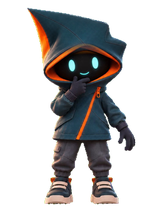
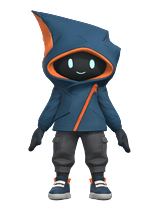
T6: maskot klipleri 3B modelden yeniden uretildi
Klipler rigli GLB'den Blender 4.2.3 EEVEE ile 640x824 render edilip 160x206'ya indirildi. Boyutlar 372/167/237/373/282 KB, toplam 1459 KB (onceki 1599 KB). Maskot testleri 35 OK, modules.validation exit 0.

diff --git a/docs/Jarvis_Yol_Haritasi.md b/docs/Jarvis_Yol_Haritasi.md
@@ -1,3 +1,8 @@
+### 2026-11-27 — T6: maskot klipleri 3B modelden yeniden üretildi
+
+- **Ne:** `webui/mascot/*.webp` beş klip, rigli `base_basic_pbr.glb` dokusundan (9.520 üçgen, 52 kemik) Blender 4.2.3 EEVEE ile 640×824 render edilip premultiplied indirmeyle 160×206'ya üretildi. Modelde hazır animasyon **yok** (GLB ve FBX içinde `actions: []`), bu yüzden pozlar prosedürel: omuz `Y ±62°`, dirsek `X +14°`, bilek `spin ±80°`, parmak `curl 26°`. Durumlar: `bosta` (nefes + baş salınımı), `dinleme` (baş eğme), `dusunme` (sağ el çeneye), `mutlu` (zıplama + baş sallama), `selamlama` (sağ el yukarı, el sallama). Oynatma hızı kare sayısıyla ayarlandı (masaüstü pencere sabit 30 fps; tarayıcı WebP süresini izler).
+- **Ölçülen:** 5 klip 160×206, **45/35/35/45/45 kare**, boyutlar **372,4 / 166,7 / 236,7 / 372,9 / 281,8 KB**, toplam **1.430 KB** + `bosta_still.png` **28,9 KB** = **1.459 KB** (önceki 1.599 KB). `tests/test_core_mascot.py` sınırları (klip ≤ 380 KB, toplam ≤ 1.800 KB) sağlanıyor; maskot testleri **35 OK**; tam `python -X utf8 -m modules.validation` **exit 0**. Kanıt: `docs/evidence/t6_maskot_klipleri.png`.
+- **Dürüst sınır:** Kollar T-pozunda modellendiği için indirilince üst kol kumaşı ceketin içine giriyor (mesh sorunu; ağırlık yumuşatma denendi, tek başına çözmüyor). Eller 160 px'de ~12 px olduğu için parmak ayrımı okunmuyor. 240×309 sürüm hazır ama `test_preload_memory_stays_under_the_desktop_budget` (60 MB) nedeniyle 160×206'da kalındı; DPI %125'te pencere 200×258 olduğu için ölçekleme hafif yumuşak. Hareket yakalama yok, tüm pozlar prosedürel; `konuşma`/`uyku` klibi hâlâ yok (konuşma → `mutlu`).
 ### 2026-11-27 — T5: masaüstü maskot penceresi (varsayılan kapalı)
 
 - **Ne:** `modules/mascot_window.py` ayrı bir Tk `Toplevel` açar: `overrideredirect`, her zaman üstte, `-transparentcolor` ile şeffaf. Kare anahtarlama `key_flat` ile: `alpha==0` → KEY, `alpha>0` → kaynak RGB aynen (`alpha_composite` siyah kontur üretiyordu). `WS_EX_TRANSPARENT` varsayılan **kapalı**; yalnız `mascot_click_through` ayarı açıkken ve boşta tıklama alta geçer; kapalıyken sürükleme/menü her durumda çalışır. Durum tek kaynaktan (`web.hub.state` + `engine.flags`) okunur; mevcut `webui/mascot.js` maskotu değişmedi. `mascot_window` ayarı **varsayılan kapalı**; `web.main` → `_start_mascot()` ile, yeniden başlatmada açılır. Konum/boyut `settings.json`'da saklanır ve monitör çalışma alanına kelepçelenir.
